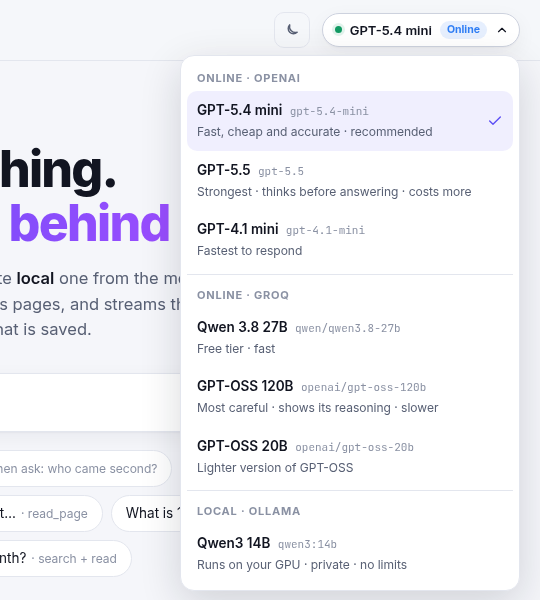
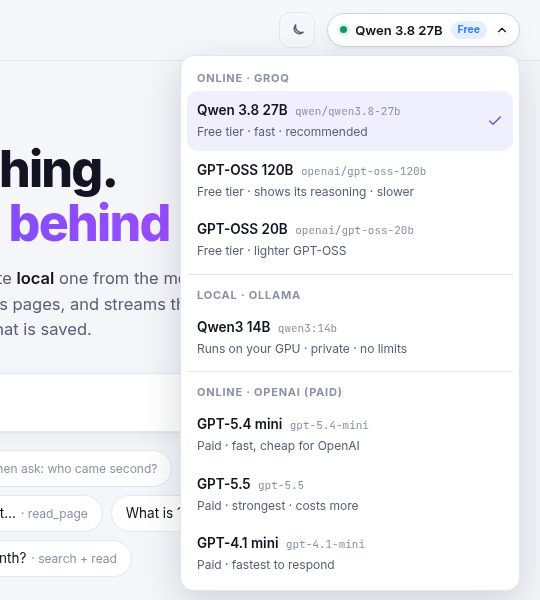
Make paid OpenAI models opt-in everywhere
OpenAI bills every request, and the previous commit made GPT-5.4 mini
the default whenever a key was present, so the app, the evals and the
self-test all spent money without anyone choosing to. Now a paid model
is only ever used when a person explicitly picks it.

Models:
- MODELS entries for OpenAI carry "paid": True; the default is always
  the free Groq Qwen 3.8, whatever keys exist
- available_models() no longer contacts OpenAI to draw the menu. If the
  key is set, its models are listed; a bad key surfaces when it's used.
  So opening the app sends nothing to OpenAI

UI:
- the app never auto-selects a paid model. It restores your own earlier
  pick, otherwise picks a free one. If only paid models are usable, it
  selects nothing: the button says "Choose a model", Ask is disabled and
  Enter sends nothing
- the model button shows "Paid" (amber) for OpenAI models, "Free" for
  Groq and "Local" for Ollama; the menu group reads "OpenAI (paid)"

Scripts:
- evals: --all skips paid models and says so; --model gpt-5.5 refuses to
  run without --include-paid, since a run is dozens of billed requests
- python -m ai.llm skips paid models unless --include-paid

Tested without a single request reaching OpenAI: every test process and
the test server ran with OPENAI_API_KEY overridden to a dummy value and
OPENAI_BASE_URL pointed at a closed local port. Checked that the
page-load availability call never touches the OpenAI client, the eval
[…]

diff --git a/frontend/src/App.jsx b/frontend/src/App.jsx
@@ -116,10 +116,12 @@ export default function App() {
     getInfo()
       .then((i) => {
         setInfo(i);
-        // Use the saved model if it can still be used, else the first usable one
+        // Use the model you picked last time if it still works. Otherwise a
+        // FREE one: a paid model is never chosen for you, only by you.
         const usable = i.models.filter((m) => m.available);
         const saved = usable.find((m) => m.id === savedModel());
-        setModel((saved ?? usable.find((m) => m.id === i.default_model) ?? usable[0] ?? i.models[0])?.id);
+        const free = usable.filter((m) => !m.paid);
+        setModel((saved ?? free.find((m) => m.id === i.default_model) ?? free[0])?.id ?? null);
       })
       .catch(() => setInfo({ offline: true }));
     refreshChats();
@@ -178,7 +180,7 @@ export default function App() {
 
   async function ask(q) {
     q = q.trim();
-    if (!q || running) return;
+    if (!q || running || !model) return;
 
     const turn = newTurn(q);
     setTurns((ts) => [...ts, turn]);
@@ -234,7 +236,7 @@ export default function App() {
         ref={inputRef}
         value={input}
         onChange={(e) => setInput(e.target.value)}
-        placeholder={idle ? "Ask a question…" : "Ask a follow-up…"}
+        placeholder={!model && info && !info.offline ? "Pick a model from the menu first…" : idle ? "Ask a question…" : "Ask a follow-up…"}
         aria-label="Ask a question"
         autoFocus
       />
@@ -243,7 +245,7 @@ export default function App() {
           <StopIcon size={14} /> Stop
         </button>
       ) : (
-        <button type="submit" className="ask-btn" disabled={!input.trim()}>
+        <button type="submit" className="ask-btn" disabled={!input.trim() || !model} title={model ? "" : "Pick a model first"}>
           Ask <ArrowIcon size={16} />
         </button>
       )}

diff --git a/frontend/src/components/ModelPicker.jsx b/frontend/src/components/ModelPicker.jsx
@@ -34,7 +34,11 @@ export default function ModelPicker({ models, value, onChange }) {
       >
         <span className={`status-dot ${selected?.available ? "" : "off"}`} />
         <span className="model-btn-name">{selected?.name ?? "Choose a model"}</span>
-        {selected && <span className={`provider-tag ${selected.provider}`}>{selected.provider === "ollama" ? "Local" : "Online"}</span>}
+        {selected && (
+          <span className={`provider-tag ${selected.paid ? "paid" : selected.provider}`}>
+            {selected.paid ? "Paid" : selected.provider === "ollama" ? "Local" : "Free"}
+          </span>
+        )}
         <ChevronIcon size={14} className={`chev ${open ? "open" : ""}`} />
       </button>
 

diff --git a/frontend/src/styles.css b/frontend/src/styles.css
@@ -845,8 +845,8 @@ a { color: inherit; }
   font-weight: 650;
   border-radius: 999px;
 }
-.provider-tag.openai,
 .provider-tag.groq { color: var(--search); background: var(--search-soft); }
+.provider-tag.paid { color: var(--warn); background: var(--warn-soft); }
 .provider-tag.ollama { color: var(--read); background: var(--read-soft); }
 .model-menu {
   position: absolute;

diff --git a/ai/llm.py b/ai/llm.py
@@ -36,22 +36,27 @@ load_dotenv()  # reads OPENAI_API_KEY / GROQ_API_KEY from the .env file (created
 # GPT-5.5 is a reasoning model and rejects `temperature`.
 # (The newest gpt-6 / gpt-5.6 models are left out on purpose: in this API they
 # only allow tools with their reasoning switched off.)
+#
+# PAID MODELS ARE OPT-IN. They cost real money per request, so nothing uses
+# them unless a person picks one: the default is free, the UI never
+# auto-selects a paid model, and the evals / self-test skip them unless you
+# pass --include-paid.
 MODELS = [
-    {"id": "gpt-5.4-mini", "provider": "openai", "name": "GPT-5.4 mini", "note": "Fast, cheap and accurate · recommended"},
-    {"id": "gpt-5.5", "provider": "openai", "name": "GPT-5.5", "note": "Strongest · thinks before answering · costs more",
-     "params": {"temperature": None}},
-    {"id": "gpt-4.1-mini", "provider": "openai", "name": "GPT-4.1 mini", "note": "Fastest to respond"},
-    {"id": "qwen/qwen3.8-27b", "provider": "groq", "name": "Qwen 3.8 27B", "note": "Free tier · fast"},
-    {"id": "openai/gpt-oss-120b", "provider": "groq", "name": "GPT-OSS 120B", "note": "Most careful · shows its reasoning · slower"},
-    {"id": "openai/gpt-oss-20b", "provider": "groq", "name": "GPT-OSS 20B", "note": "Lighter version of GPT-OSS"},
+    {"id": "qwen/qwen3.8-27b", "provider": "groq", "name": "Qwen 3.8 27B", "note": "Free tier · fast · recommended"},
+    {"id": "openai/gpt-oss-120b", "provider": "groq", "name": "GPT-OSS 120B", "note": "Free tier · shows its reasoning · slower"},
+    {"id": "openai/gpt-oss-20b", "provider": "groq", "name": "GPT-OSS 20B", "note": "Free tier · lighter GPT-OSS"},
     {"id": "qwen3:14b", "provider": "ollama", "name": "Qwen3 14B", "note": "Runs on your GPU · private · no limits"},
+    {"id": "gpt-5.4-mini", "provider": "openai", "name": "GPT-5.4 mini", "note": "Paid · fast, cheap for OpenAI", "paid": True},
+    {"id": "gpt-5.5", "provider": "openai", "name": "GPT-5.5", "note": "Paid · strongest · costs more", "paid": True,
+     "params": {"temperature": None}},
+    {"id": "gpt-4.1-mini", "provider": "openai", "name": "GPT-4.1 mini", "note": "Paid · fastest to respond", "paid": True},
 ]
-# OpenAI when there's a key for it, otherwise Groq's free tier
-DEFAULT_MODEL = "gpt-5.4-mini" if os.environ.get("OPENAI_API_KEY") else "qwen/qwen3.8-27b"
+DEFAULT_MODEL = "qwen/qwen3.8-27b"  # always a free one
 
 PROVIDERS = {
-    "openai": {"label": "Online · OpenAI", "url": None, "key": "OPENAI_API_KEY"},  # None = OpenAI's own URL
     "groq": {"label": "Online · Groq", "url": "https://api.groq.com/openai/v1", "key": "GROQ_API_KEY"},
+    # None = OpenAI's own URL. paid: never contacted just to check availability.
+    "openai": {"label": "Online · OpenAI (paid)", "url": None, "key": "OPENAI_API_KEY", "paid": True},
     "ollama": {"label": "Local · Ollama", "url": "http://localhost:11434"},
 }
 
@@ -80,6 +85,11 @@ def available_models() -> list[dict]:
         if not os.environ.get(key):
             status[name] = (set(), f"{key} is not set")
             continue
+        if PROVIDERS[name].get("paid"):
+            # Don't contact a paid provider just to draw the menu. If the key
+            # is set we list its models; a bad key shows up when it's used.
+            status[name] = ({m["id"] for m in MODELS if m["provider"] == name}, "")
+            continue
         try:
             status[name] = ({m.id for m in client.with_options(timeout=5).models.list().data}, "")
         except Exception:
@@ -94,7 +104,8 @@ def available_models() -> list[dict]:
         ids, problem = status[m["provider"]]
         if not problem and m["id"] not in ids:
             problem = "Not installed" if m["provider"] == "ollama" else "Not available"
-        result.append({**m, "provider_label": PROVIDERS[m["provider"]]["label"], "available": not problem, "problem": problem})
+        result.append({**m, "paid": m.get("paid", False), "provider_label": PROVIDERS[m["provider"]]["label"],
+                       "available": not problem, "problem": problem})
     return result
 
 
@@ -174,10 +185,18 @@ def _to_ollama_format(messages: list) -> list:
     return converted
 
 
-# Test without any UI:  python llm.py   (every model says hi, streamed)
+# Test without any UI (every model says hi, streamed):
+#   python -m ai.llm                   free models only
+#   python -m ai.llm --include-paid    also the paid OpenAI ones (costs money)
 if __name__ == "__main__":
+    import sys
+
+    include_paid = "--include-paid" in sys.argv
     for m in available_models():
         print(f"{m['name']:14} ", end="")
+        if m["paid"] and not include_paid:
+            print("(paid — skipped; add --include-paid to test it)")
+            continue
         if not m["available"]:
             print(f"(unavailable: {m['problem']})")
             continue

diff --git a/evals/run.py b/evals/run.py
@@ -25,6 +25,10 @@ Usage (from the project root):
   python -m evals.run --repeat 3               # run each case 3 times (flakiness)
   python -m evals.run --only search            # only cases with this tag or id
   python -m evals.run --regrade evals/results/<file>.json   # re-score, no model calls
+  python -m evals.run --model gpt-5.4-mini --include-paid   # paid models need this flag
+
+Paid models (OpenAI) are never run unless you pass --include-paid: a full
+run is dozens of billed requests per model, so it has to be a choice.
 """
 
 import argparse
@@ -304,6 +308,7 @@ def main():
     parser.add_argument("--repeat", type=int, default=1, help="run each case N times to spot flaky ones")
     parser.add_argument("--only", help="only run cases with this tag or id")
     parser.add_argument("--regrade", metavar="FILE", help="re-score a saved results file with the current checks (no model calls)")
+    parser.add_argument("--include-paid", action="store_true", help="allow paid models (OpenAI). Each run costs money")
     args = parser.parse_args()
 
     cases = json.loads(CASES_FILE.read_text())
@@ -318,14 +323,7 @@ def main():
             print_comparison(results)
         sys.exit(0 if all_passed(results) else 1)
 
-    if args.all:
-        model_ids = [m["id"] for m in available_models() if m["available"]]
-    else:
-        model_ids = args.model or [DEFAULT_MODEL]
-        for m in model_ids:
-            if get_model(m) is None:
-                known = ", ".join(x["id"] for x in available_models())
-                sys.exit(f"Unknown model {m!r}. Known models: {known}")
+    model_ids = pick_models(args)
 
     results = [evaluate(m, cases, args.repeat) for m in model_ids]
     if len(results) > 1:
@@ -340,6 +338,27 @@ def main():
     print(dim(f"\nSaved: {out.relative_to(EVALS_DIR.parent)}   (re-score it later: --regrade {out.relative_to(EVALS_DIR.parent)})"))
 
     sys.exit(0 if all_passed(results) else 1)
+
+
+def pick_models(args) -> list[str]:
+    """Which models to test. Paid models only with --include-paid."""
+    if args.all:
+        usable = [m for m in available_models() if m["available"]]
+        skipped = [m["id"] for m in usable if m["paid"] and not args.include_paid]
+        if skipped:
+            print(dim(f"Skipping paid models (add --include-paid to test them): {', '.join(skipped)}"))
+        return [m["id"] for m in usable if m["id"] not in skipped]
+
+    model_ids = args.model or [DEFAULT_MODEL]
+    for m in model_ids:
+        model = get_model(m)
+        if model is None:
+            known = ", ".join(x["id"] for x in available_models())
+            sys.exit(f"Unknown model {m!r}. Known models: {known}")
+        if model.get("paid") and not args.include_paid:
+            sys.exit(f"{m} is a paid model: an eval run is dozens of billed requests. "
+                     f"Add --include-paid if you really want to run it.")
+    return model_ids
 
 
 def all_passed(results: list[dict]) -> bool:

diff --git a/README.md b/README.md
@@ -67,8 +67,8 @@ You will need:
 - **Python 3.10+**
 - **Node.js 18+**
 - At least one API key for the online models:
-  - an **OpenAI API key** ([platform.openai.com](https://platform.openai.com/api-keys)): paid, gives the best answers, and becomes the default model, or
-  - a free **Groq API key** ([console.groq.com](https://console.groq.com/keys)). It takes a minute to get one.
+  - a free **Groq API key** ([console.groq.com](https://console.groq.com/keys)). It takes a minute to get one, and it's all you need, or
+  - an **OpenAI API key** ([platform.openai.com](https://platform.openai.com/api-keys)): paid, gives the best answers. OpenAI models are **opt-in**: the app never picks one for you (see below).
 - Optional: a free **Tavily API key** from [app.tavily.com](https://app.tavily.com) for better search results. Skip it and DuckDuckGo is used instead.
 
 Then:
@@ -134,7 +134,7 @@ The `ai/` files also run on their own from the terminal (as modules, with `-m`, 
 
 ```bash
 .venv/bin/python -m ai.tools                          # try the two tools
-.venv/bin/python -m ai.llm                            # every model says hi
+.venv/bin/python -m ai.llm                            # every free model says hi (--include-paid for OpenAI)
 .venv/bin/python -m ai.agent                          # a 2-question chat in the terminal
 .venv/bin/python -m ai.agent openai/gpt-oss-120b      # same, with another model
 ```
@@ -185,6 +185,7 @@ The checks are plain code, so the score is the same every time you grade the sam
 .venv/bin/python -m evals.run --repeat 3              # run each case 3 times, flags flaky ones
 .venv/bin/python -m evals.run --only search           # only cases with this tag (or id)
 .venv/bin/python -m evals.run --regrade evals/results/<file>.json   # re-score, no model calls
+.venv/bin/python -m evals.run --model gpt-5.4-mini --include-paid  # paid models need this flag
 ```
 
 Later I added OpenAI's models and ran the same suite on them before trusting them:
@@ -219,7 +220,7 @@ The local model has no limits at all, so it's the one to use when you want to ru
 
 ## Things to know
 
-- **OpenAI is paid per use.** Every question makes a few model calls, so keep an eye on your usage page. GPT-5.4 mini is cheap; GPT-5.5 costs noticeably more.
+- **OpenAI is paid per use, so it's opt-in everywhere.** The default model is always a free one, and the app never switches to a paid model on its own: the menu marks them "Paid", and they're only used when you pick one (your pick is remembered, with a Paid tag on the button). The app doesn't even contact OpenAI to draw the menu. The evals and the `ai.llm` self-test skip paid models unless you add `--include-paid`. Each question makes a few model calls; GPT-5.4 mini is cheap, GPT-5.5 costs noticeably more.
 - **Groq's free tier has per-minute *and* per-day limits** (8,000 tokens per minute and 200,000 tokens per day, per model). A normal question is fine. If a question needs many searches and hits the per-minute limit, the app waits and retries by itself, so the answer just comes slower. The daily limit doesn't reset for hours, so if you hit that one, switch to another model from the menu (each model has its own budget) or use the local model, which has no limits.
 - **Search can fail sometimes.** DuckDuckGo occasionally refuses a request, so it retries up to 3 times. If Tavily fails (bad key, out of credits, no internet), the agent quietly falls back to DuckDuckGo instead of failing the question.
 - **Some websites block bots** (formula1.com, reuters.com for example). When a page can't be read, the agent sees the error and tries another one.
